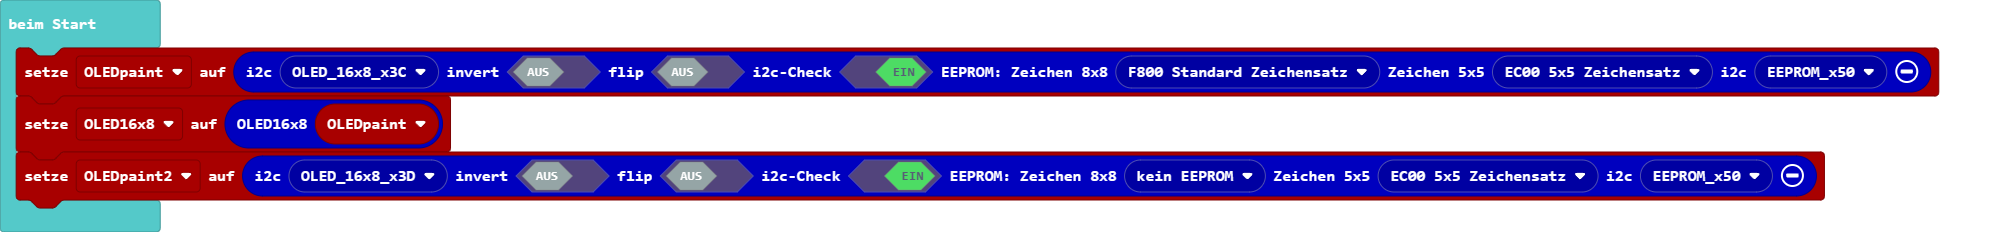
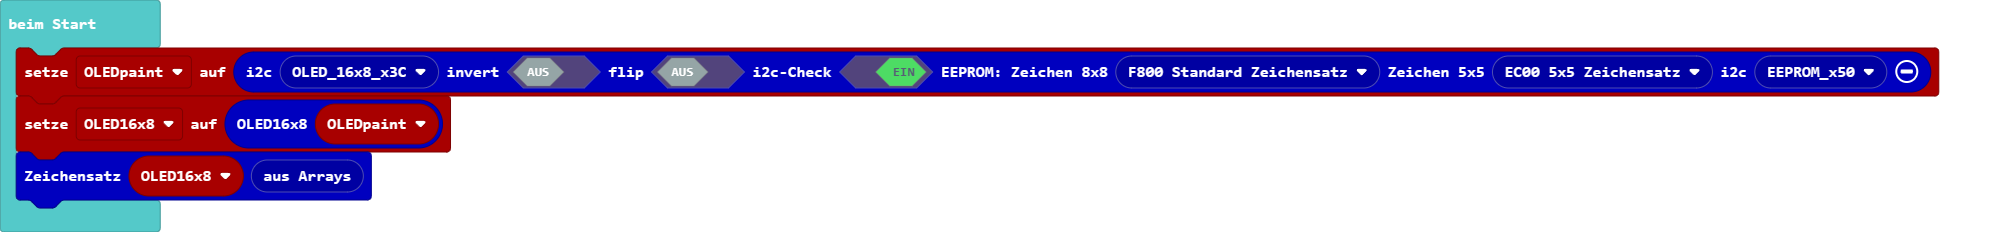
Aktualisiere pxt.json, main.blocks, main.ts, oledclass.ts, oledarrays.ts

Changed region(s): [[0.0, 0.6336, 0.9342, 0.9052]]

diff --git a/oledclass.ts b/oledclass.ts
@@ -17,7 +17,7 @@ OLED Display mit EEPROM neu programmiert von Lutz Elßner im September 2023
 Objektvariablen und Zeichensatz aus Arrays von calliope-net/oled-eeprom im November 2023
 */ {
 
-    //% group="OLED Display 0.96 + SparkFun Qwiic EEPROM Breakout - 512Kbit"
+    //% group="OLED Display 0.96 + SparkFun Qwiic EEPROM Breakout - 512Kbit" weight=8
     //% block="i2c %pADDR || invert %pInvert flip %pFlip i2c-Check %ck EEPROM: Zeichensatz %pEEPROM_Startadresse i2c %pEEPROM_i2cADDR"
     //% pADDR.shadow="oled_eADDR_OLED"
     //% pInvert.shadow="toggleOnOff"
@@ -51,6 +51,7 @@ Objektvariablen und Zeichensatz aus Arrays von calliope-net/oled-eeprom im Novem
         private readonly qEEPROM_Startadresse_8x8: number
         private readonly qEEPROM_Startadresse_5x5: number
         private qZeichenDrehen: eZeichenDrehen = eZeichenDrehen.nicht
+        private qoledarrays: oledarrays
 
         private i2cError_OLED: number = 0 // Fehlercode vom letzten WriteBuffer (0 ist kein Fehler)
         private i2cError_EEPROM: number = 0
@@ -74,7 +75,7 @@ Objektvariablen und Zeichensatz aus Arrays von calliope-net/oled-eeprom im Novem
         // ========== group="OLED Display 0.96 + SparkFun Qwiic EEPROM Breakout - 512Kbit"
 
         //% group="OLED Display 0.96 + SparkFun Qwiic EEPROM Breakout - 512Kbit"
-        //% block="init %OLED16x8 || invert %pInvert drehen %pFlip" weight=8
+        //% block="init %OLED16x8 || invert %pInvert drehen %pFlip" weight=6
         //% pInvert.shadow="toggleOnOff" pInvert.defl=false
         //% pFlip.shadow="toggleOnOff" pFlip.defl=false
         init(pInvert?: boolean, pFlip?: boolean): void {
@@ -168,6 +169,13 @@ Objektvariablen und Zeichensatz aus Arrays von calliope-net/oled-eeprom im Novem
             this.i2cWriteBuffer_OLED(bu)
 
             control.waitMicros(100000) // 100ms Delay Recommended
+        }
+
+        //% group="OLED Display 0.96 + SparkFun Qwiic EEPROM Breakout - 512Kbit"
+        //% block="Zeichensatz %OLED16x8 %poledarrays" weight=4
+        //% poledarrays.shadow="oled_new_oledarrays"
+        set_oledarrays(poledarrays: oledarrays) {
+            this.qoledarrays = poledarrays
         }
 
         // ========== group="OLED Display 0.96 + SparkFun Qwiic EEPROM Breakout - 512Kbit"

diff --git a/oledarrays.ts b/oledarrays.ts
@@ -10,23 +10,29 @@ namespace oled {
     }  */
 
 
+    /* 
+        export function getPixel8ByteArray(pCharCode: number) {
+            let charCodeArray: string[]
+            switch (pCharCode & 0xF0) {
+                //case 0x00: { charCodeArray = extendedCharacters; break; }
+                case 0x20: { charCodeArray = x20; break; } // 16 string-Elemente je 8 Byte = 128
+                case 0x30: { charCodeArray = x30; break; }
+                case 0x40: { charCodeArray = x40; break; }
+                case 0x50: { charCodeArray = x50; break; }
+                case 0x60: { charCodeArray = x60; break; }
+                case 0x70: { charCodeArray = x70; break; }
+                //default: { charCodeArray.length = 0 }
+            }
+            if (charCodeArray != undefined && charCodeArray.length == 16)
+                return Buffer.fromUTF8(charCodeArray.get(pCharCode & 0x0F))
+            else
+            return Buffer.fromUTF8("\xFF\xFF\xFF\xFF\xFF\xFF\xFF\xFF")
+        } */
 
-    export function getPixel8ByteArray(pCharCode: number) {
-        /* let charCodeArray: string[]
-        switch (pCharCode & 0xF0) {
-            //case 0x00: { charCodeArray = extendedCharacters; break; }
-            case 0x20: { charCodeArray = x20; break; } // 16 string-Elemente je 8 Byte = 128
-            case 0x30: { charCodeArray = x30; break; }
-            case 0x40: { charCodeArray = x40; break; }
-            case 0x50: { charCodeArray = x50; break; }
-            case 0x60: { charCodeArray = x60; break; }
-            case 0x70: { charCodeArray = x70; break; }
-            //default: { charCodeArray.length = 0 }
-        }
-        if (charCodeArray != undefined && charCodeArray.length == 16)
-            return Buffer.fromUTF8(charCodeArray.get(pCharCode & 0x0F))
-        else */
-        return Buffer.fromUTF8("\xFF\xFF\xFF\xFF\xFF\xFF\xFF\xFF")
+
+    //% blockId=oled_new_oledarrays block="aus Arrays" blockHidden=true
+    export function new_oledarrays(): oledarrays {
+        return new oledarrays()
     }
 
     export class oledarrays {

diff --git a/main.ts b/main.ts
@@ -1,3 +1,3 @@
 let OLEDpaint = oled.new_oledpaint(oled.oled_eADDR_OLED(oled.eADDR_OLED.OLED_16x8_x3C), false, false, true, oled.oled_eEEPROM_Startadresse(oled.eEEPROM_Startadresse.F800), oled.oled_eEEPROM_Startadresse(oled.eEEPROM_Startadresse.EC00), oled.oled_eADDR_EEPROM(oled.eADDR_EEPROM.EEPROM_x50))
 let OLED16x8 = OLEDpaint.return_oledclass()
-let OLEDpaint2 = oled.new_oledpaint(oled.oled_eADDR_OLED(oled.eADDR_OLED.OLED_16x8_x3D), false, false, true, oled.oled_eEEPROM_Startadresse(oled.eEEPROM_Startadresse.kein_EEPROM), oled.oled_eEEPROM_Startadresse(oled.eEEPROM_Startadresse.EC00), oled.oled_eADDR_EEPROM(oled.eADDR_EEPROM.EEPROM_x50))
+OLED16x8.set_oledarrays(oled.new_oledarrays())
